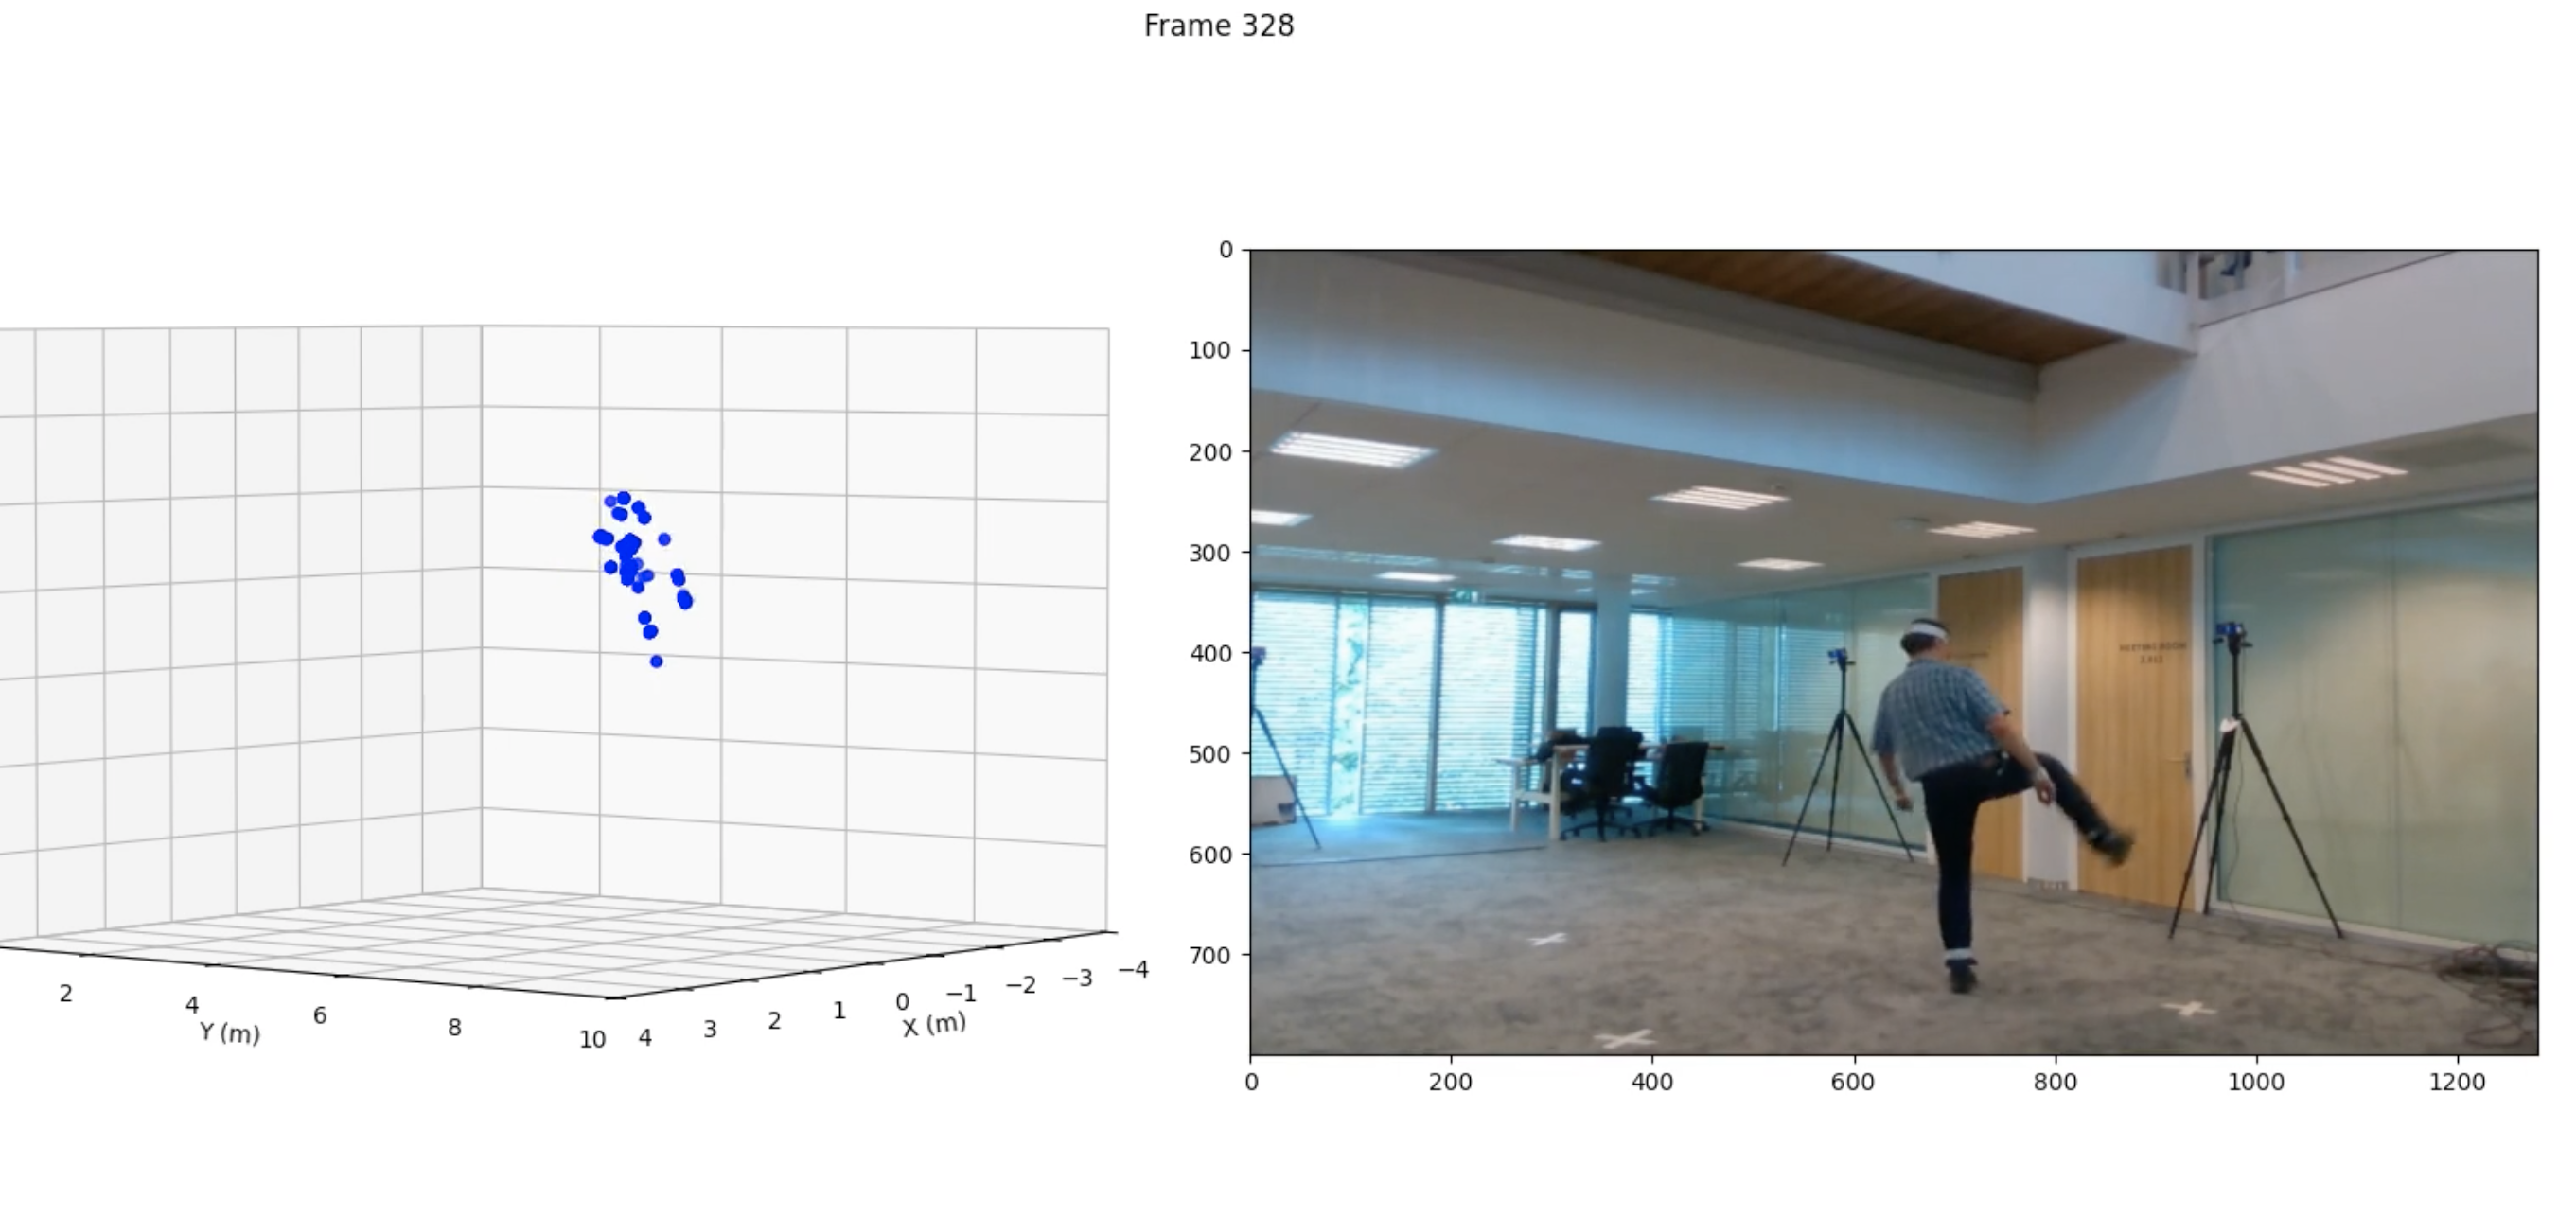
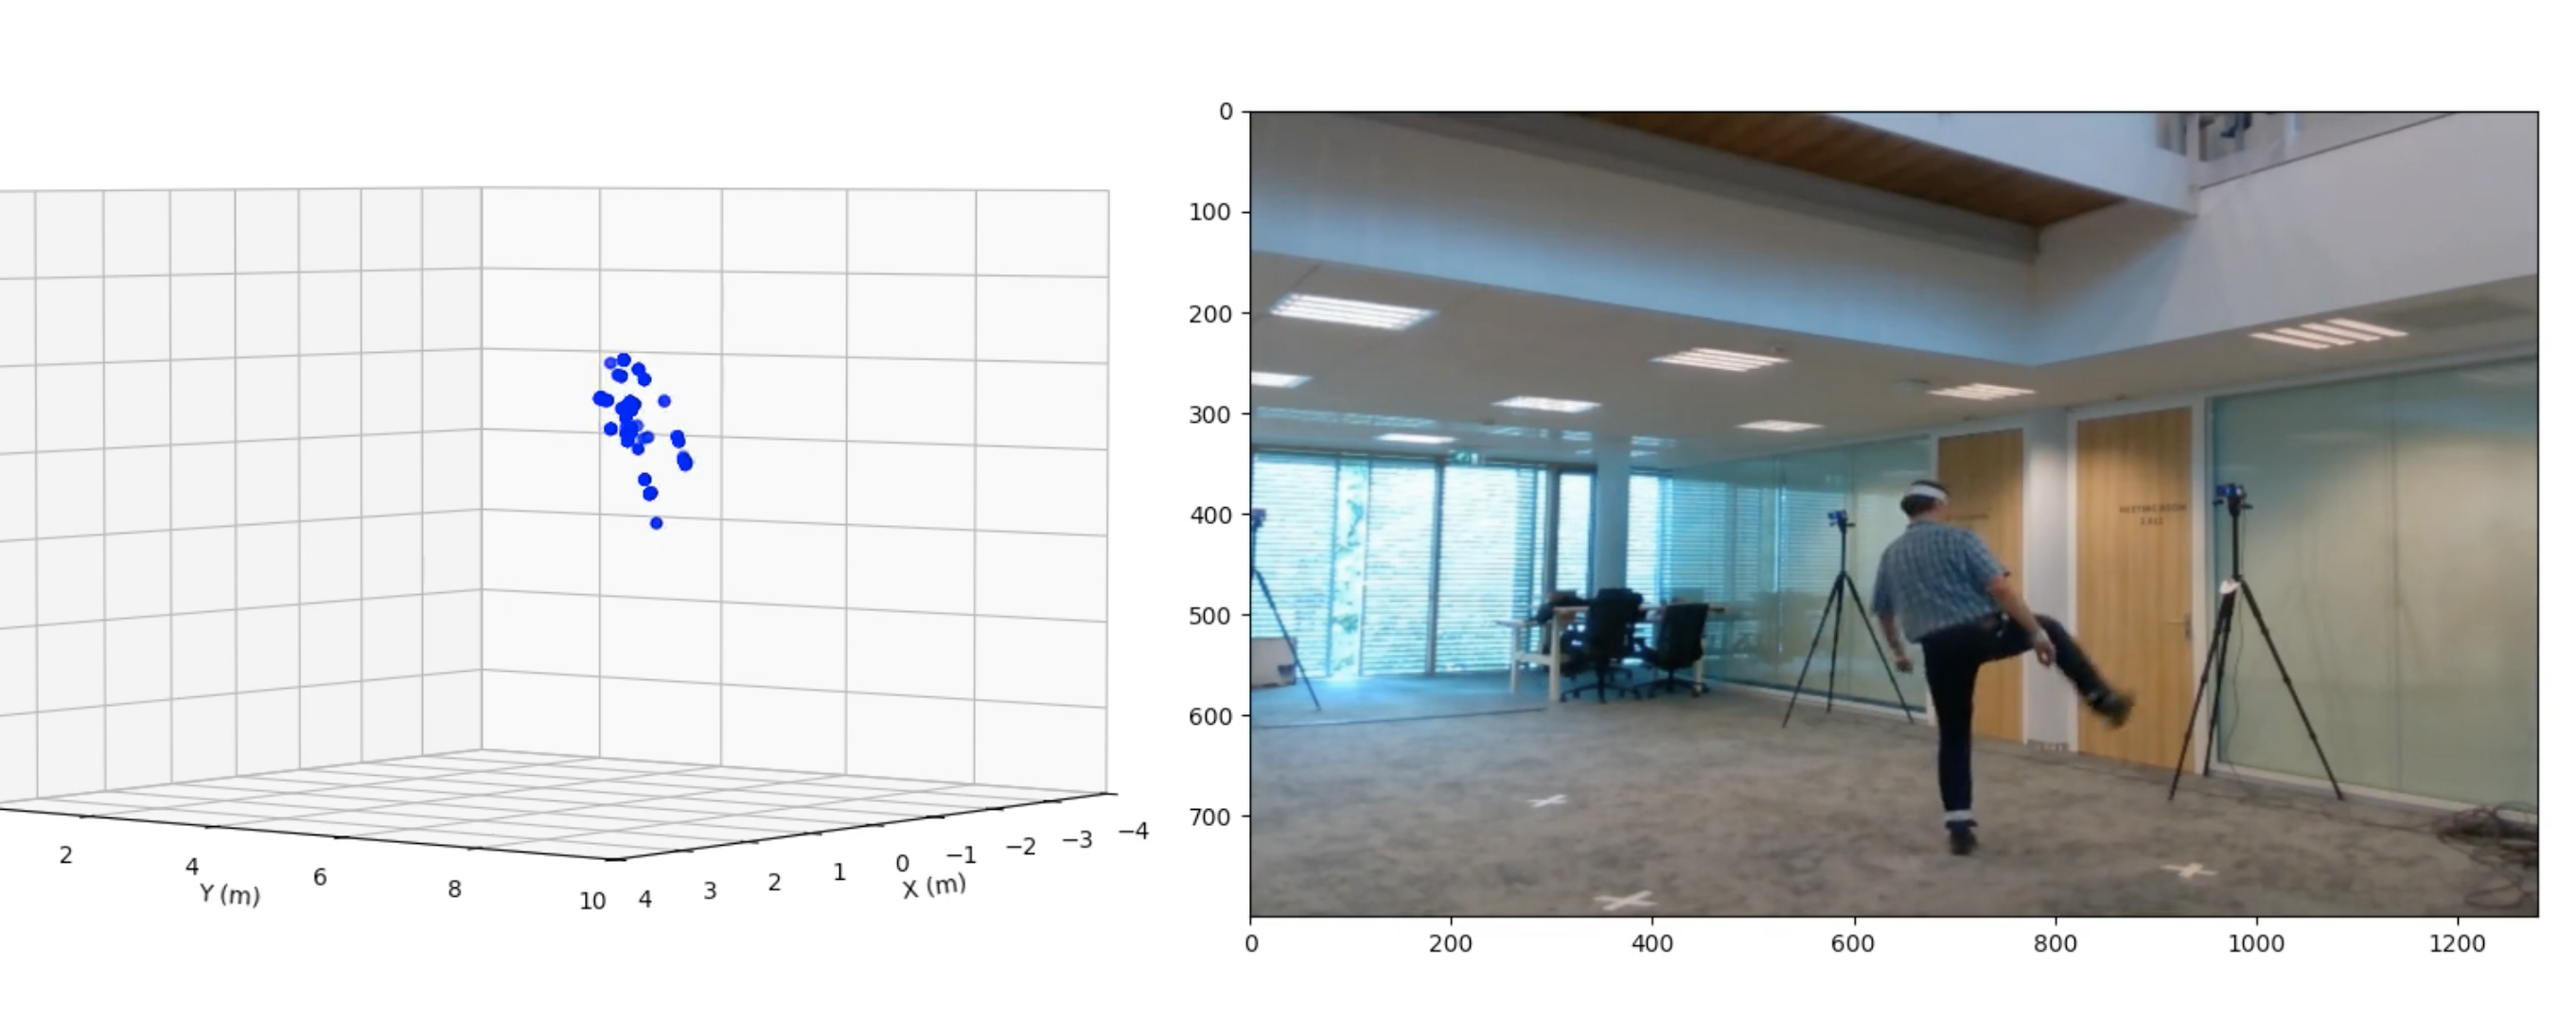
added pictures

diff --git a/poster-v1.tex b/poster-v1.tex
@@ -328,7 +328,7 @@ radar PID, reducing dependence on large subject-specific datasets.}}
 % ============================================================
 \block{\textcolor{white}{\large \ding{207}\ \ InISAR Pipeline}}{
 \begin{minipage}{0.4\linewidth}
-\posterfig{\linewidth}{tikz-radar-lib/inisar_pipeline_strip_vertical.pdf}{Six-stage 3D reconstruction pipeline}
+\posterfig{\linewidth}{tikz-radar-lib/inisar_pipeline_strip_vertical.pdf}{}
 \end{minipage}
 \hfill
 \begin{minipage}{0.56\linewidth}
@@ -343,13 +343,13 @@ radar PID, reducing dependence on large subject-specific datasets.}}
 \block{\textcolor{white}{\large \ding{208}\ \ Multipath Removal}}{
     \begin{minipage}{0.48\linewidth}
         \centering
-        \includegraphics[width=\linewidth]{other_range_doppler_profile_0.png}
+        \includegraphics[width=\linewidth]{fig_radar_vs_camera_p3_0053.png}
         \small\textcolor{radarGrey}{Prior removal: noise and ghost targets}
     \end{minipage}
     \hfill
     \begin{minipage}{0.48\linewidth}
         \centering
-        \includegraphics[width=\linewidth]{fig_radar_vs_camera_candidate0.png}
+        \includegraphics[width=\linewidth]{fig_radar_vs_camera_p5_0065.png}
         \small\textcolor{radarGrey}{Post removal: no multipath reflections}
     \end{minipage}
     \hfill
@@ -361,6 +361,8 @@ radar PID, reducing dependence on large subject-specific datasets.}}
     \begin{minipage}{0.48\linewidth}
         \centering
         \includegraphics[width=\linewidth]{other_p4cn0_iou_frame_65.png}
+        \includegraphics[width=0.95\linewidth]{other_p4cn0_frame29.png}
+        \includegraphics[width=0.95\linewidth]{other_p4cn2_frame328.png}
         \small\textcolor{radarGrey}{InISAR (blue) vs Motion Capture (green)}
     \end{minipage}
     \hfill